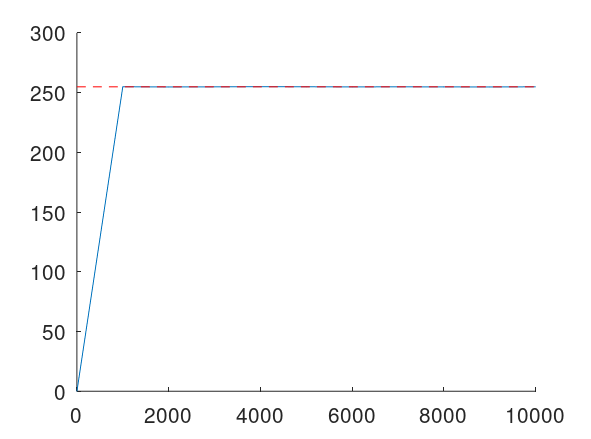
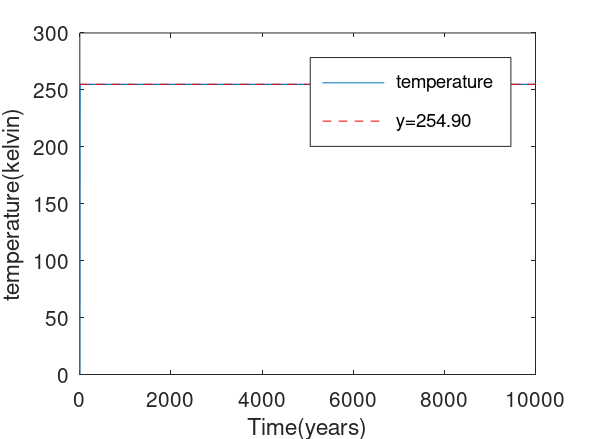
correction of small issues

diff --git a/Xu_Zexuan.m b/Xu_Zexuan.m
@@ -1,24 +1,65 @@
-global R const_stefan absorbed_light
+global R const_stefan absorbed_light E
 
 R = 2.912;#(w-yr)/((m^2)*k)
 Q = 342 # W/(m^2)
 alpha = 0.3 ;# albedo de la terre
 const_stefan = 5.67*10^(-8)# W/((m^2)*(K^2)) , constante de Stefan-Boltzmann
 absorbed_light = Q*(1-alpha)
+E = 0.61 #facteur emissivite
 function Question_1(t,T0)
-    hold on
+    display("graph for question 1")
     global R const_stefan absorbed_light
     ode_sys = @(t,T)[(absorbed_light-(const_stefan*T^4))/R];
     [t,T]= ode45(ode_sys, t, T0);
-    plot(t,T);
+    plot(t,T,'DisplayName', 'temperature');
+    xlabel('Time(years)')
+    ylabel('temperature(kelvin)')
+    hold on
     line([min(t), max(t)], [254.9090, 254.9090], 'Color', 'r', 'LineStyle', '--');
+    legend('temperature','y=254.90')
+    a = input('press enter to continue');
+endfunction
+function Question_2()
+    a = input('press enter to continue');
+endfunction
+function Question_3(t,T0)
+    display("graph for question 3")
+    global R const_stefan absorbed_light E
+    ode_sys = @(t,T)[(absorbed_light-(E*const_stefan*T^4))/R];
+    [t,T]= ode45(ode_sys, t, T0);
+    plot(t,T,'DisplayName', 'temperature');
+    xlabel('Time(years)')
+    ylabel('temperature(kelvin)')
+    hold on
+    line([min(t), max(t)], [288.4382, 288.4382], 'Color', 'r', 'LineStyle', '--');
+    legend('temperature','y=288.4382')
+    a = input('press enter to continue');
+endfunction
+function Question_3_bis(t,T0)
+    display("graph for question 3")
+    global R const_stefan absorbed_light
+    legend_entries = {};
+    for e = 0:0.1:1;
+      ode_sys = @(t,T)[(absorbed_light-(e*const_stefan*T^4))/R];
+      [t,T]= ode45(ode_sys, t, T0);
+      plot(t,T,'DisplayName', 'temperature');
+      hold on
+      xlabel('Time(years)')
+      ylabel('temperature(kelvin)')
+      legend_entries = [legend_entries, sprintf('e = %.1f', e)];
+    end
+    legend(legend_entries)
+    a = input('press enter to continue');
 endfunction
 
 
 
-
-
 T0 = 0;# temperature moyenne
-t = 0:1000:(10^4); # temps en annee
+t = 0:1:(10^4); # temps en annee
 Question_1(t,T0);
+hold off;
 
+Question_3(t,T0);
+hold off;
+Question_3_bis(t,T0);
+hold off;
